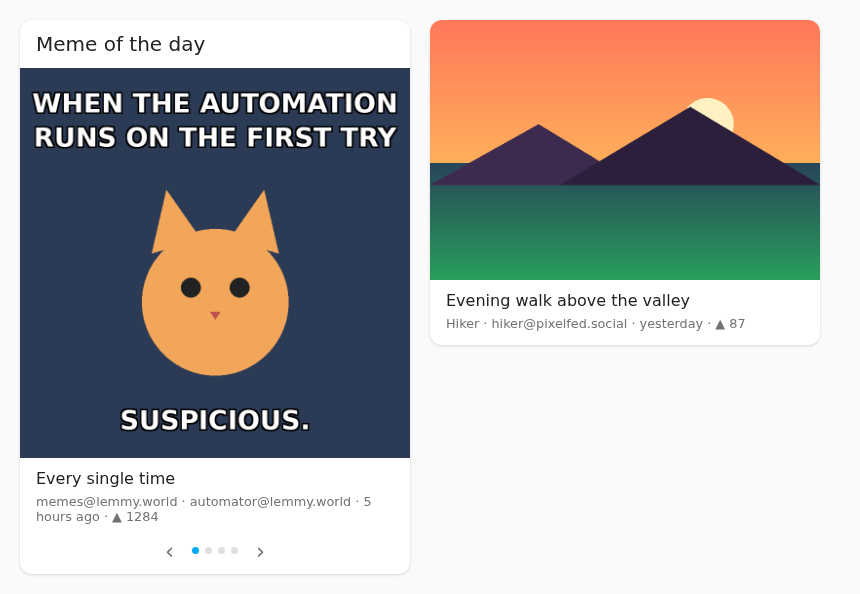
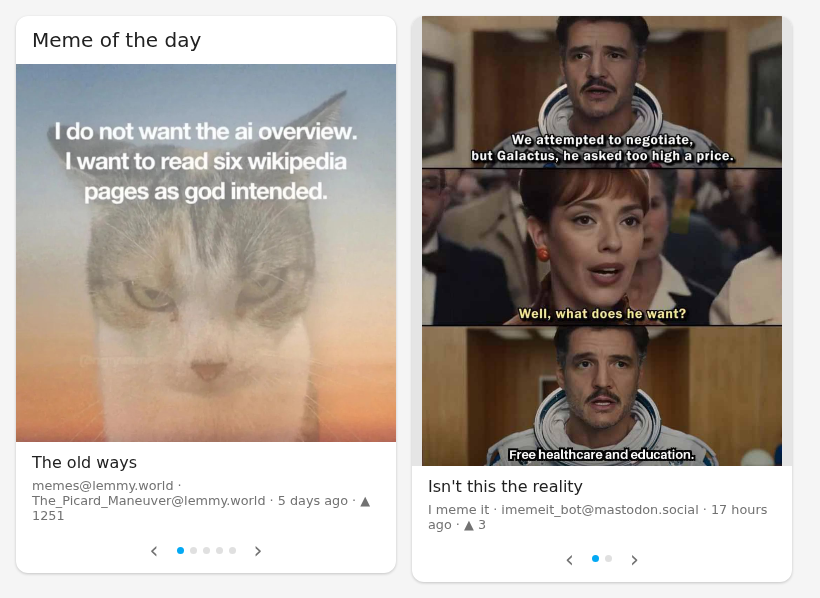
docs: show real posts in the screenshot

diff --git a/README.md b/README.md
@@ -4,9 +4,7 @@ A Home Assistant integration and dashboard card that shows the top pictures of a
 **Lemmy** community, a **Mastodon** hashtag or account, or a **Pixelfed** feed – for
 example the meme of the day from `memes@lemmy.world`.
 
-<img src="images/screenshot.png" alt="Two Fediverse Feed cards: the meme of the day from a Lemmy community with arrows to the next posts, and a Pixelfed picture" width="720">
-
-<sub>Example pictures drawn for this README.</sub>
+<img src="images/screenshot.png" alt="Two Fediverse Feed cards: the meme of the day from memes@lemmy.world and the top post of the #memes hashtag on Mastodon, each with arrows to the next posts" width="720">
 
 - Source, community/hashtag/account and server as free text in the card editor
 - Sort by **Top** (hour, day, week, month, year, all time), **Hot**, **New** or **Active**
